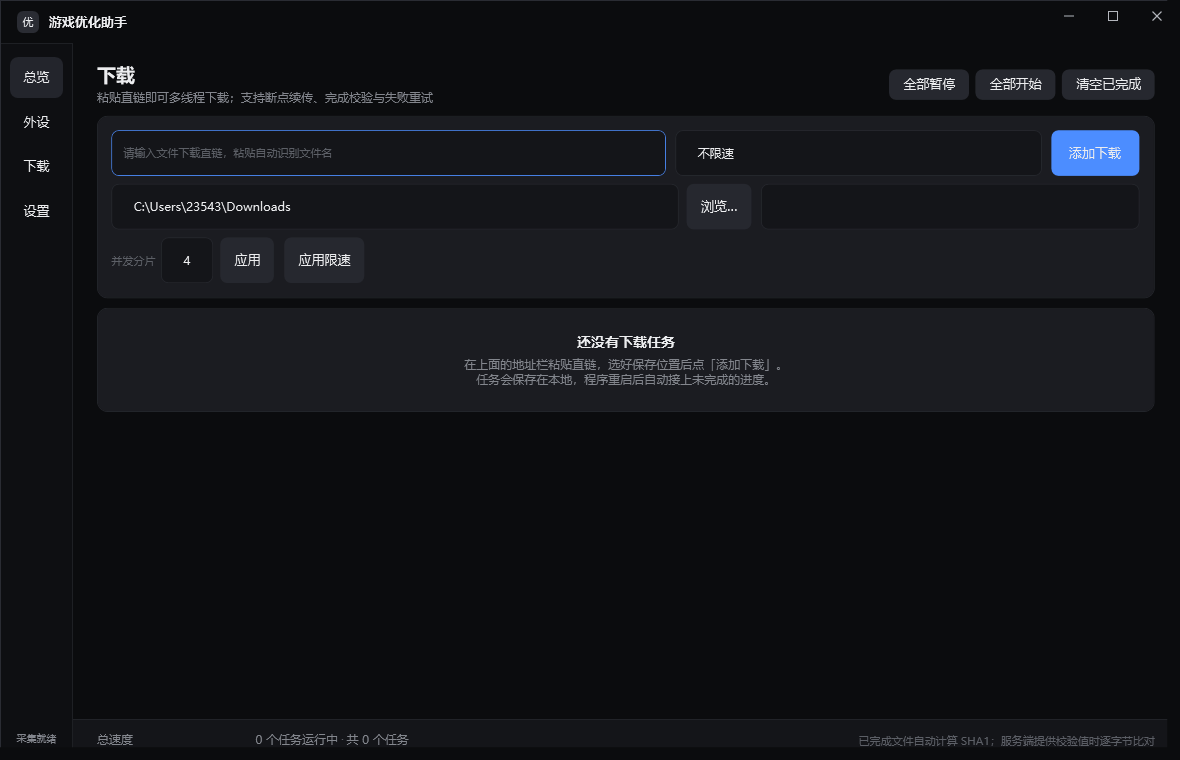
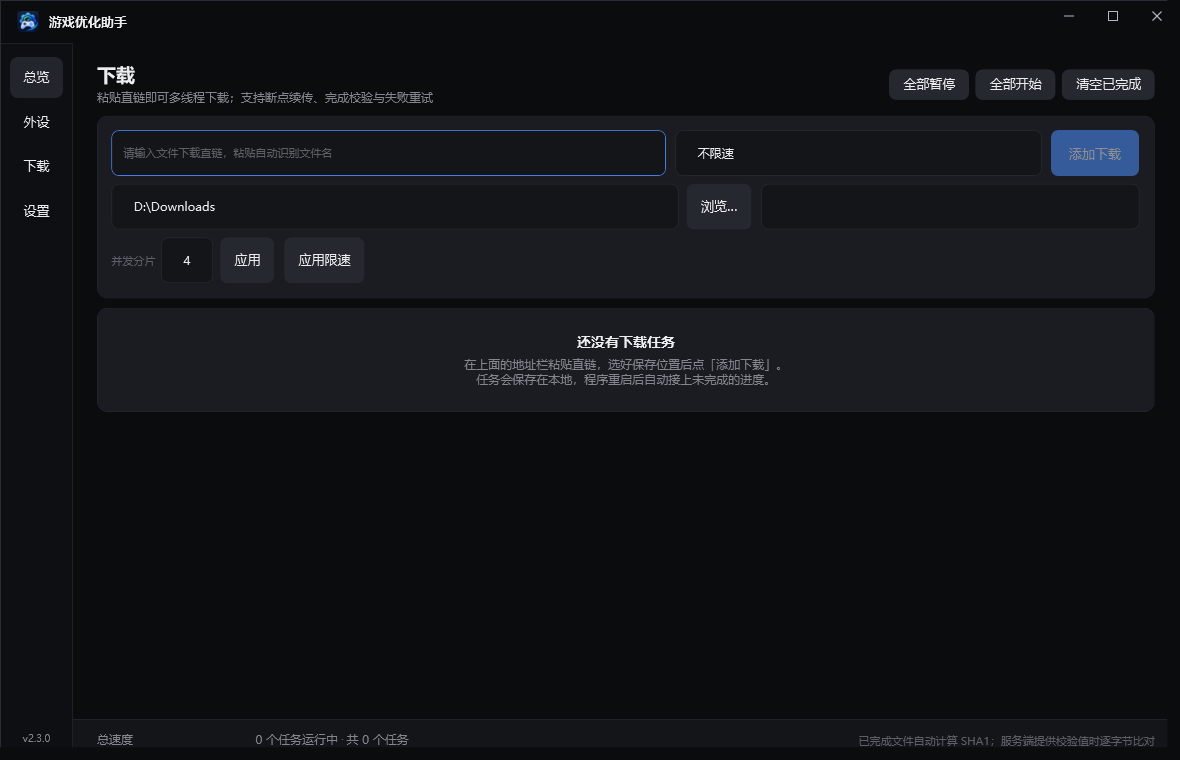
docs: README 截图按 v2.3.0 界面重拍，并给截图加脱敏
- 旧图停在 v2.2.x：CPU 仪表还是「P 核峰值」、按钮写「白名单设置」、游戏卡片无图标、左下角写「采集策略」。重拍四张，另补 CPU 诊断页与后台进程保护浮窗两张。

- 截图会进公开仓库，旧 download.png 一直带着 C://Users//<用户名>//Downloads。渲染器新增截图模式：用户目录替换为 %USERPROFILE%、下载目录用中性值、配置文件路径显示真实默认位置而不是 go-render 临时文件。

- 渲染进程从不提权，改为按已提权渲染，否则每张图都会多一条黄色警告横幅；CPU 诊断页先攒满 30 秒采样再截，否则趋势图是空的。

- 顺带把 README 的用例数（584→760）与代码量（23,202/136 → 25,512/142）改对。

diff --git a/src/GameOptimizer.App/OffscreenRenderer.cs b/src/GameOptimizer.App/OffscreenRenderer.cs
@@ -19,7 +19,11 @@ using System.Windows.Media.Imaging;
 /// 再渲染那个 Border。
 ///
 /// 用法：<c>GameOptimizer.App.dll --render &lt;输出目录&gt; [页面名,...]</c>
-/// 页面名可选 home / peripherals / download / settings / cpu，缺省渲染全部。
+/// 页面名可选 home / peripherals / download / settings / cpu / background，缺省渲染全部。
+///
+/// 截图会进 README（公开仓库），所以渲染全程按「演示状态」跑：
+/// 提权状态按已提权处理、路径里的用户目录脱敏、下载目录用中性值。
+/// 这几步在 <see cref="EnterScreenshotMode"/> 里集中做，别在各页零散地改。
 /// </summary>
 internal static class OffscreenRenderer
 {
@@ -29,10 +33,20 @@ internal static class OffscreenRenderer
     /// <summary>画布上限：内容再高也不再撑（再高就该滚动而不是截一张巨图）。</summary>
     private const int MaxHeight = 1400;
 
+    /// <summary>
+    /// CPU 页要攒够多少秒才截。
+    ///
+    /// 诊断页的趋势图画的是「最近 30 秒」：只攒十几秒，折线就只占右边一小截，
+    /// 左边全是空白——读者会以为这张图没加载完。所以至少攒满整个窗口。
+    /// </summary>
+    private const int CpuWarmupSeconds = 32;
+
     /// <summary>内容比默认窗口高的页面，单独指定画布高度。</summary>
     private static readonly Dictionary<string, int> PageHeights = new()
     {
-        ["cpu"] = 1250,
+        // 诊断子页内容随「高占用进程」行数浮动（2~4 行）；840 能容下 4 行且不截断诊断建议。
+        // 高级详情（逐核条形图）更高，拍那页时临时调大。
+        ["cpu"] = 840,
     };
 
     /// <summary>页面名 → 导航序号（cpu 详情页不走导航，由 OpenCpuDetailCommand 打开）。</summary>
@@ -47,6 +61,7 @@ internal static class OffscreenRenderer
 
     public static string RenderAll(string outputDirectory, string? only = null)
     {
+        EnterScreenshotMode();
         Directory.CreateDirectory(outputDirectory);
         _tracePath = Path.Combine(outputDirectory, "_render.log");
         Trace("render all start, only=" + (only ?? "(all)"));
@@ -96,13 +111,25 @@ internal static class OffscreenRenderer
         };
         Trace("bg vm created");
 
-        // 展开第一行的详情，让「完整路径 / 识别依据」这块也进截图；
+        // 展开一行详情，让「完整路径 / 识别依据」这块也进截图；
         // 并模拟「一行受保护」，把两种结果（会结束 / 不会结束）都拍进去
         if (window.DataContext is GameOptimizer.App.ViewModels.MainViewModel vm)
         {
+            // 展开哪一行有讲究：优先挑一个 exe 在用户目录下的进程。
+            // 脱敏后它的路径是 %USERPROFILE%\AppData\...，既完整可读、又不会把
+            // 使用者装了什么的私人目录（比如代理工具）拍进公开截图。
+            // 只看前几行——更靠下的行展开后落在浮窗可视区之外，截不到。
             var rows = vm.BackgroundProcesses;
-            if (rows.Count > 0) rows[0].IsExpanded = true;
-            if (rows.Count > 0) rows[0].IsProtected = true;
+            var demo = rows
+                .Take(4)
+                .FirstOrDefault(r => r.PathText.StartsWith("%USERPROFILE%", StringComparison.Ordinal))
+                ?? rows.FirstOrDefault();
+
+            if (demo is not null)
+            {
+                demo.IsExpanded = true;
+                demo.IsProtected = true;
+            }
         }
 
         var content = (UIElement)window.Content;
@@ -125,8 +152,27 @@ internal static class OffscreenRenderer
         {
             vm.NavigateTo(navIndex);
 
+            // 下载页的保存目录默认取本机 %USERPROFILE%\Downloads，截图里换成中性路径
+            if (name == "download") vm.Downloads.SaveDirectory = @"D:\Downloads";
+
             // CPU 详情页是总览页上的浮层，靠命令打开，不走导航
-            if (name == "cpu") vm.OpenCpuDetailCommand.Execute(null);
+            if (name == "cpu")
+            {
+                vm.OpenCpuDetailCommand.Execute(null);
+
+                // 诊断页的结论要「连续 10 秒」才落地，趋势图要 30 个点才有形状。
+                // 不预热就截，拍到的是「采样中 · 已覆盖 1 秒」加一张空折线图——那不是这一页真实的样子。
+                vm.SetSamplingActive(true);
+                for (var i = 0; i < CpuWarmupSeconds; i++)
+                {
+                    // 拆成两次短泵：渲染器自己的帧定时器优先级是 Send，
+                    // 单次 1000ms 的泵经常正好卡在 VM 那个 1 秒采集定时器之前结束，
+                    // 结果等 32 秒只攒到 14 帧，趋势图还是空的。两段加起来 1.2 秒就稳过采集点。
+                    PumpDispatcher(700);
+                    PumpDispatcher(500);
+                }
+                Trace($"cpu warmed {CpuWarmupSeconds}s");
+            }
         }
         Trace("navigated");
 
@@ -290,6 +336,23 @@ internal static class OffscreenRenderer
             // 保护名单同样用临时文件：截图过程中会模拟勾选保护，
             // 绝不能写到使用者真实的 background-whitelist.json 里
             new GameOptimizer.Core.Library.BackgroundWhitelistStore(
-                Path.Combine(Path.GetTempPath(), "go-render-whitelist.json")));
+                Path.Combine(Path.GetTempPath(), "go-render-whitelist.json")),
+
+            // 渲染进程从不提权，按已提权处理，否则每张图都会多一条黄色警告横幅
+            elevatedOverride: true);
+    }
+
+    /// <summary>
+    /// 进入截图模式。集中做三件事，各页不再零散处理：
+    ///
+    /// 1. 路径脱敏（用户目录 → %USERPROFILE%）——README 是公开的，不能带本机账户名；
+    /// 2. 下载页保存目录换成中性路径——否则截图里是 C:\Users\&lt;名&gt;\Downloads；
+    /// 3. 记录内存里的标记，供 <see cref="GameOptimizer.App.ViewModels.MainViewModel"/> 判断。
+    /// </summary>
+    private static void EnterScreenshotMode()
+    {
+        GameOptimizer.App.ViewModels.MainViewModel.ScreenshotMode = true;
+        Trace("screenshot mode on, profile=" + PathRedactor.Redact(
+            Environment.GetFolderPath(Environment.SpecialFolder.UserProfile)));
     }
 }

diff --git a/src/GameOptimizer.App/ViewModels/MainViewModel.cs b/src/GameOptimizer.App/ViewModels/MainViewModel.cs
@@ -55,13 +55,20 @@ public sealed class MainViewModel : INotifyPropertyChanged
     /// 保护名单存储位置。默认用 %LocalAppData% 下的真实配置；
     /// 离屏渲染时传临时文件，避免截图过程改动使用者真实的勾选状态。
     /// </param>
+    /// <param name="elevatedOverride">
+    /// 提权状态覆盖值，null 表示按真实进程检测。
+    /// 只有离屏渲染会传 true：渲染进程从不提权，不覆盖的话每张截图都会多一条
+    /// 「当前未以管理员身份运行」的黄条——那是截图环境的产物，不是用户看到的样子。
+    /// </param>
     public MainViewModel(
         PdhSampler sampler,
         bool samplerReady,
         GameModeController gameMode,
         DownloadStore? downloadStore = null,
-        BackgroundWhitelistStore? whitelistStore = null)
+        BackgroundWhitelistStore? whitelistStore = null,
+        bool? elevatedOverride = null)
     {
+        IsElevated = elevatedOverride ?? ElevationStatus.IsCurrentProcessElevated();
         _sampler = sampler;
         _gameMode = gameMode;
         _whitelistStore = whitelistStore ?? new BackgroundWhitelistStore();
@@ -190,8 +197,18 @@ public sealed class MainViewModel : INotifyPropertyChanged
     /// <summary>
     /// 权限状态：清单里已声明 requireAdministrator，双击即提权。
     /// 但仍要检测——用户可能通过计划任务、非 UAC 路径启动，此时前面那句提示就不该出现。
+    /// 离屏渲染可通过构造参数的 <c>elevatedOverride</c> 覆盖，避免截图带上环境的黄条。
     /// </summary>
-    public bool IsElevated { get; } = ElevationStatus.IsCurrentProcessElevated();
+    public bool IsElevated { get; }
+
+    /// <summary>
+    /// 截图模式：仅 <c>--render</c> 置位。
+    ///
+    /// 置位后路径类属性走脱敏（用户目录 → <c>%USERPROFILE%</c>）、
+    /// 配置文件路径显示真实的默认位置而非渲染用的临时文件。
+    /// 运行时不置位，界面显示与脱敏前完全一致。
+    /// </summary>
+    internal static bool ScreenshotMode { get; set; }
 
     /// <summary>
     /// 显存预算：从 DXGI 读显卡真实容量——独显取专用显存，核显取专用 + 共享。
@@ -802,7 +819,10 @@ public sealed class MainViewModel : INotifyPropertyChanged
     }
 
     /// <summary>配置文件真实路径，界面显示出来方便用户手改。</summary>
-    public string BackgroundConfigPath => _whitelistStore.FilePath;
+    public string BackgroundConfigPath => ScreenshotMode
+        // 截图里不能出现 C:\Users\<名>\AppData\Local\Temp\go-render-whitelist.json 这种渲染痕迹
+        ? @"%LocalAppData%\GameOptimizer\background-whitelist.json"
+        : _whitelistStore.FilePath;
 
     /// <summary>列表顶部的计数：总数 / 受保护 / 会被结束 / 无法识别。</summary>
     public string BackgroundCountText
@@ -1877,7 +1897,8 @@ public sealed class GameStatusItem(GameEntry entry, GameVramAssessment assessmen
     public GameEntry Entry => entry;
     public string Name => entry.Name;
     public string SizeText => $"{entry.SizeOnDiskGb:F1} GB";
-    public string Path => entry.InstallPath;
+    /// <summary>安装路径。截图模式下用户目录会被脱敏，避免 README 暴露本机账户名。</summary>
+    public string Path => PathRedactor.Redact(entry.InstallPath);
 
     /// <summary>游戏 exe 的图标；扫描不到 exe 路径时为 null，界面退化为首字符色块。</summary>
     public System.Windows.Media.ImageSource? Icon => AppIconCache.ForPath(entry.ExecutablePath);
@@ -1984,8 +2005,10 @@ public sealed class BackgroundProcessEntry : INotifyPropertyChanged
     public string? ProductName => _info.ProductName;
     public string? FileVersion => _info.FileVersion;
 
-    /// <summary>完整路径；读不到时明确写出来，界面不做留白。</summary>
-    public string PathText => _info.ExecutablePath ?? "（读不到可执行文件路径）";
+    /// <summary>完整路径；读不到时明确写出来，界面不做留白。截图模式下用户目录会被脱敏。</summary>
+    public string PathText => _info.ExecutablePath is null
+        ? "（读不到可执行文件路径）"
+        : PathRedactor.Redact(_info.ExecutablePath);
     public bool HasPath => _info.ExecutablePath is not null;
 
     public bool IsIdentityUnknown => _info.IsIdentityUnknown;

diff --git a/src/GameOptimizer.App/PathRedactor.cs b/src/GameOptimizer.App/PathRedactor.cs
@@ -1,0 +1,31 @@
+namespace GameOptimizer.App;
+
+/// <summary>
+/// 截图路径脱敏。只在 <c>--render</c> 离屏渲染时启用，正常运行不做任何替换。
+///
+/// 为什么需要：文档截图会进 README，而仓库是公开的。
+/// 直接把 <c>C:\Users\&lt;真实用户名&gt;\...</c> 拍进图里，等于把本机账户名公开出去
+/// （v2.2.x 的 download.png 就是这样漏了用户名）。
+/// 这里只替换「用户目录前缀」，盘符之后的结构与文件名原样保留——
+/// 读者照样能看出「这是用户目录下的某个程序」，信息量不丢。
+/// </summary>
+internal static class PathRedactor
+{
+    private static readonly string UserProfile =
+        Environment.GetFolderPath(Environment.SpecialFolder.UserProfile);
+
+    /// <summary>把用户目录前缀换成 <c>%USERPROFILE%</c>；其他路径原样返回。</summary>
+    public static string Redact(string? path)
+    {
+        if (string.IsNullOrWhiteSpace(path)) return path ?? string.Empty;
+
+        // Windows 路径不区分大小写，别用 Ordinal 判断
+        if (UserProfile.Length > 0
+            && path.StartsWith(UserProfile, StringComparison.OrdinalIgnoreCase))
+        {
+            return "%USERPROFILE%" + path[UserProfile.Length..];
+        }
+
+        return path;
+    }
+}
